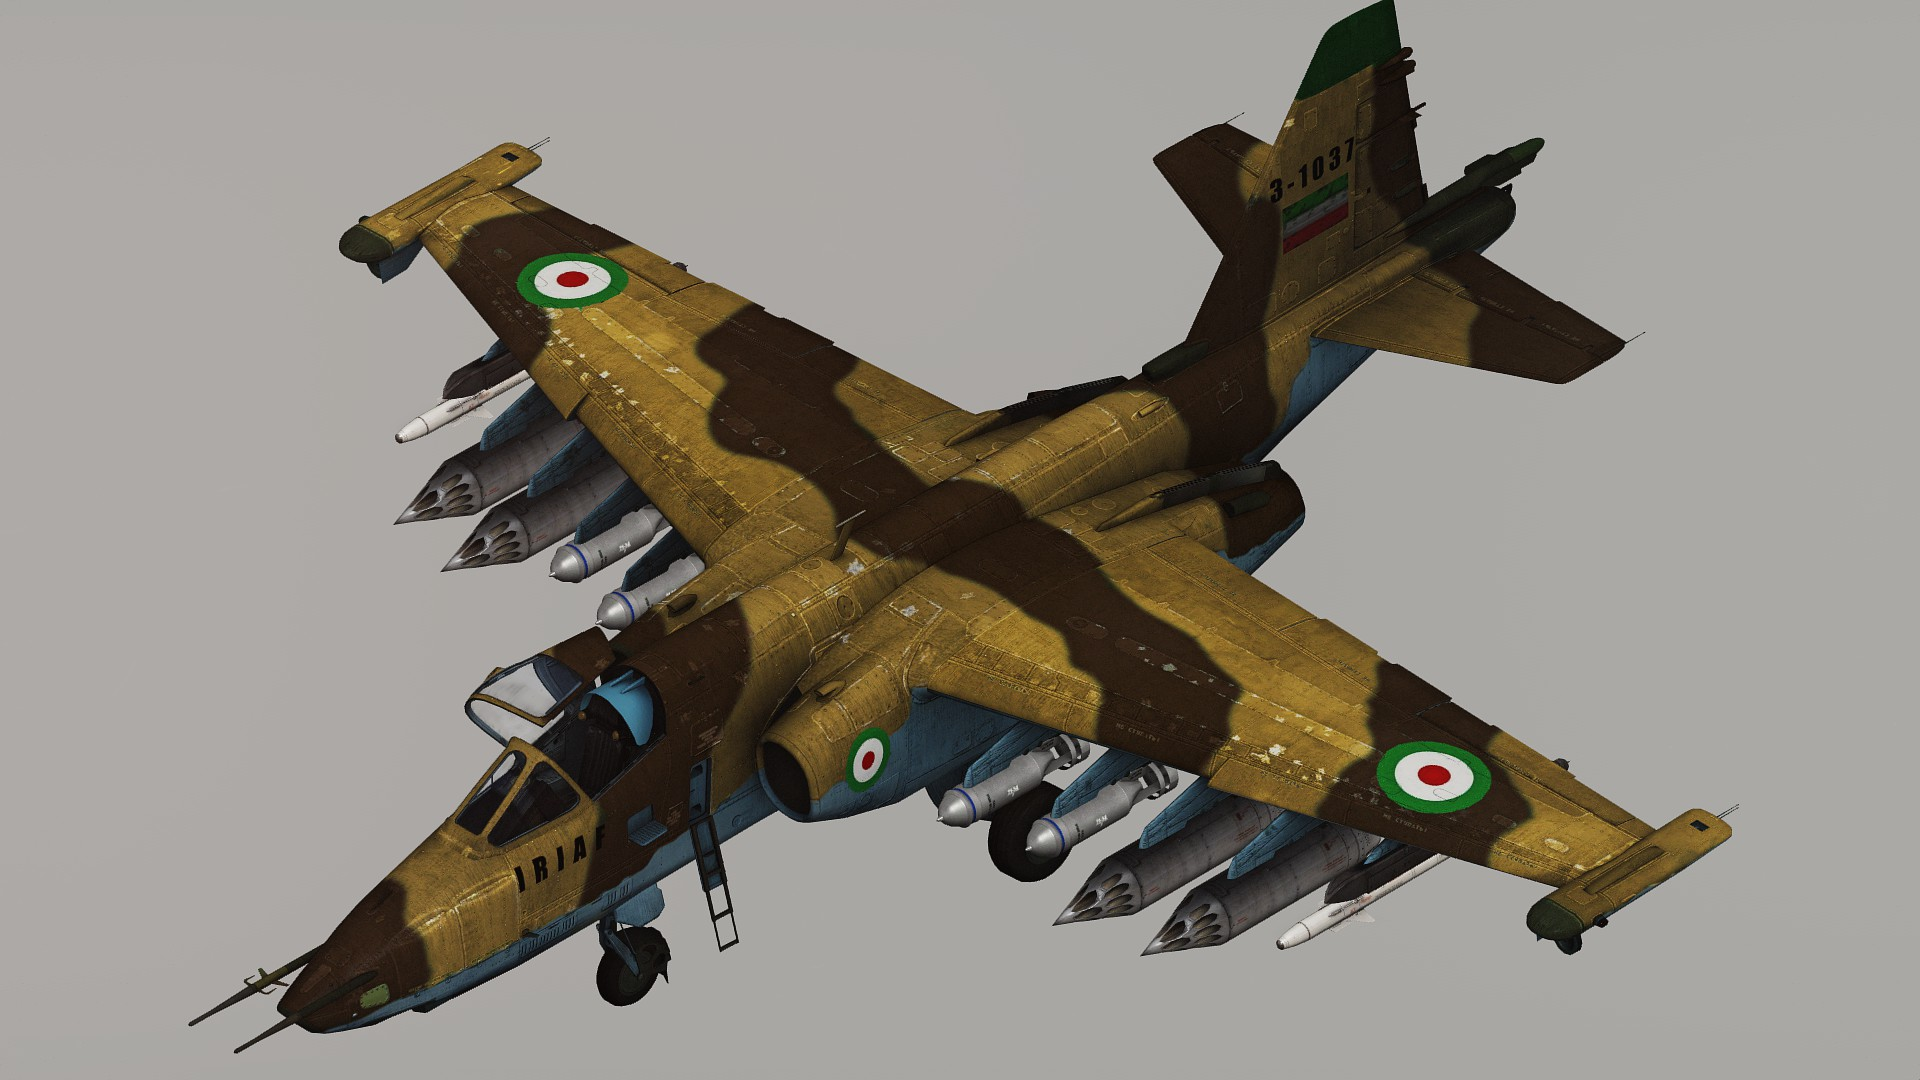
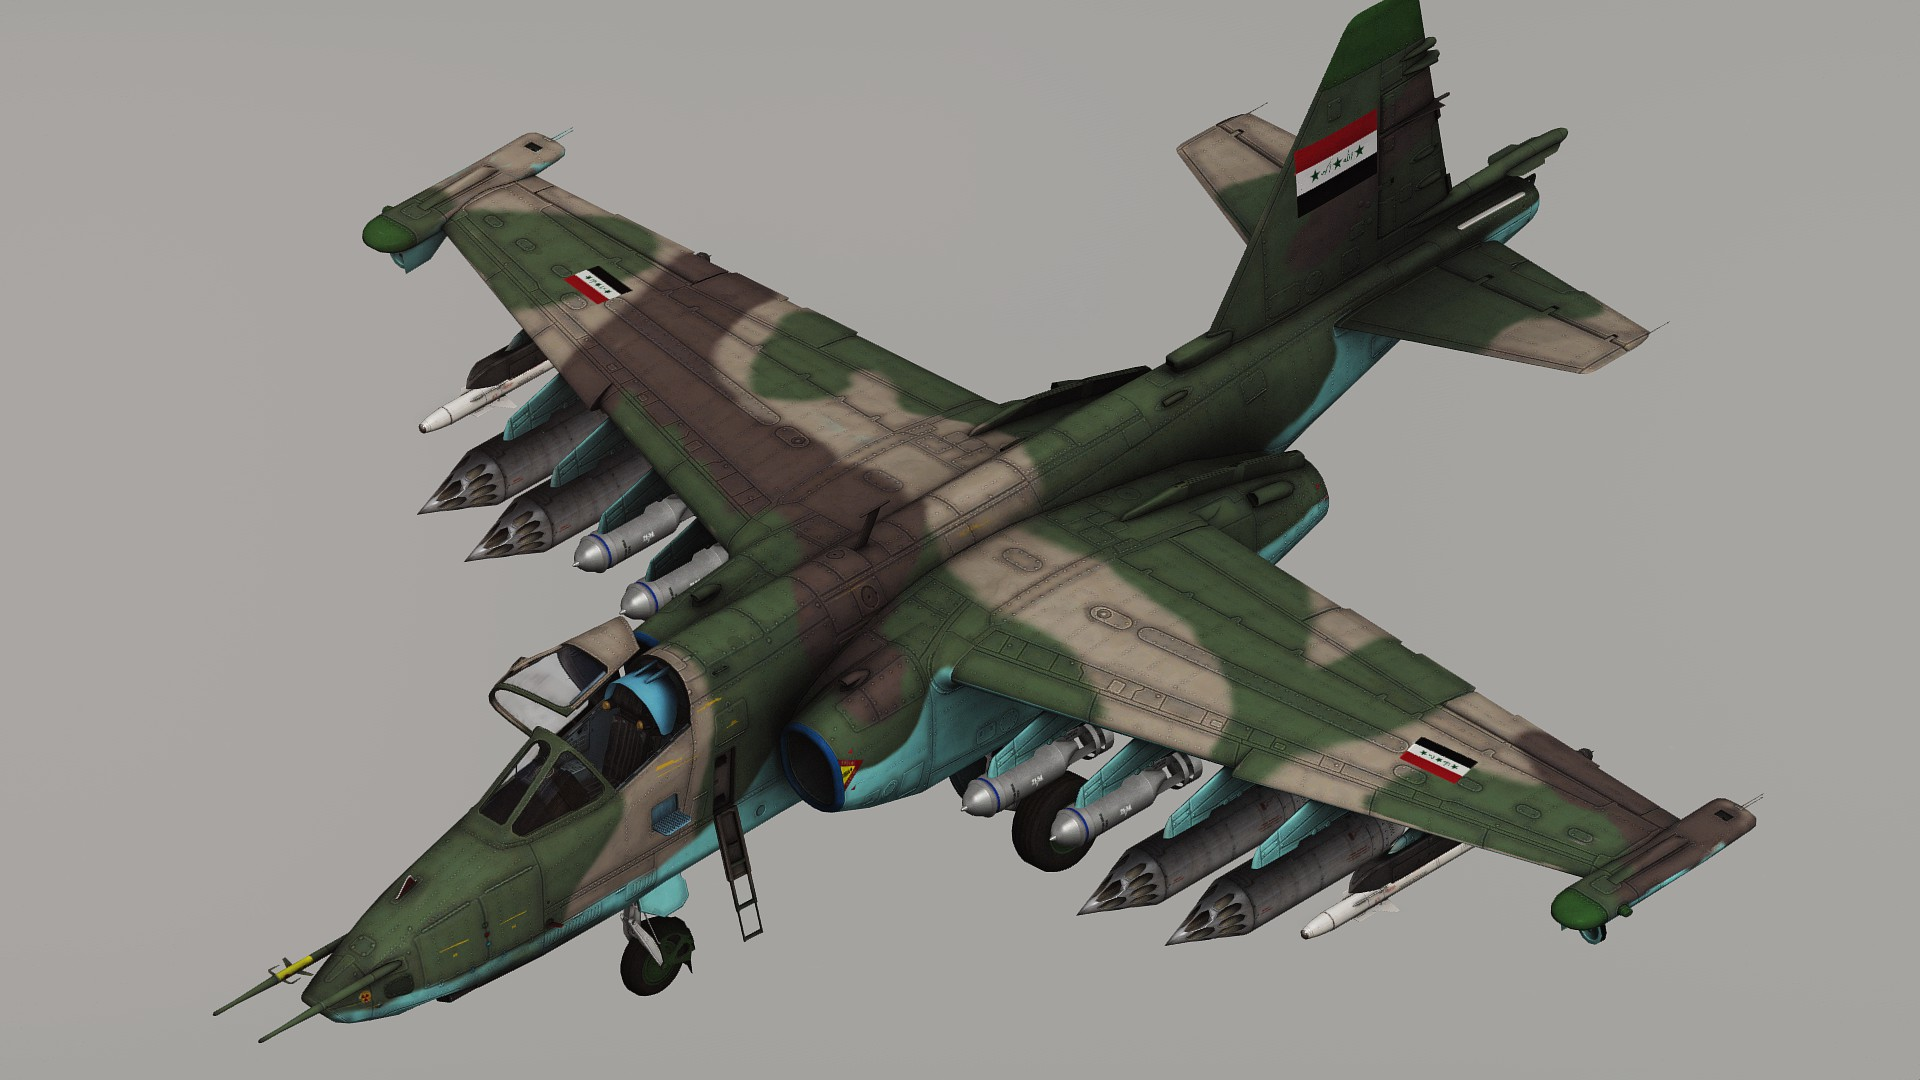
su-25

Changed region(s): [[0.0938, 0.0, 0.9375, 0.9778]]

diff --git a/docs/RoleGuide/AA.md b/docs/RoleGuide/AA.md
@@ -86,7 +86,7 @@ Camouflage will vary between **theaters of operation and/or Faction.**
 
 <div class="image-container">
   <img src="/mkdocs/assets/images/AA/su-25-ru.jpg" width="100%" />
-  <p class="image-caption">Su-25 - RU</p> <br>
+  <p class="image-caption">Su-25 - RU</p>
 </div>
 
 <div class="image-container">
@@ -96,7 +96,7 @@ Camouflage will vary between **theaters of operation and/or Faction.**
 
 <div class="image-container">
   <img src="/mkdocs/assets/images/AA/l-39-ada.jpg" width="100%" />
-  <p class="image-caption">L-39 - ADA</p> <br>
+  <p class="image-caption">L-39 - ADA</p>
 </div>
 
 <div class="image-container">
@@ -106,7 +106,7 @@ Camouflage will vary between **theaters of operation and/or Faction.**
 
 <div class="image-container">
   <img src="/mkdocs/assets/images/AA/jas-39-aaf.jpg" width="100%" />
-  <p class="image-caption">JAS 39 - AAF</p> <br>
+  <p class="image-caption">JAS 39 - AAF</p>
 </div>
 
 <div class="image-container">
@@ -122,20 +122,20 @@ Here are a few examples of different factions using similar, if not, same camo.
 
 Su-25 :
 
- 
+<div class="image-container">
+  <img src="/mkdocs/assets/images/AA/su-25-ru.jpg" width="100%" />
+  <p class="image-caption">RU</p> <br>
+</div>
 
-## test 4
+<div class="image-container">
+  <img src="/mkdocs/assets/images/AA/su-25-ia.jpg" width="100%" />
+  <p class="image-caption">IA</p> <br>
+</div>
 
-<p float="left">
-  <img src="/mkdocs\assets\images\AA\su-25-IA.jpg" width="100px"> /mkdocs\assets\images\AA\su-25-IA.jpg width=100px <br>
-  <img src="\mkdocs\assets\images\AA\su-25-IA.jpg" width="100"> \mkdocs\assets\images\AA\su-25-IA.jpg width=100<br>
-  <img src="/mkdocs/assets/images/AA/su-25-IA.jpg" width="10%"> /mkdocs/assets/images/AA/su-25-IA.jpg width=10%<br>
-
-  <img src="/mkdocs/assets/images/AA/su-25-IA.jpg" width="45%" />
-  <img src="/mkdocs/assets/images/AA/su-25-IA.jpg" width="45%" />
-
-</p>  
-
+<div class="image-container">
+  <img src="/mkdocs/assets/images/AA/su-25-4x.jpg" width="100%" />
+  <p class="image-caption">RU - ChDSZ - chDKZ - chDZZ</p> <br>
+</div>
 
 
 
